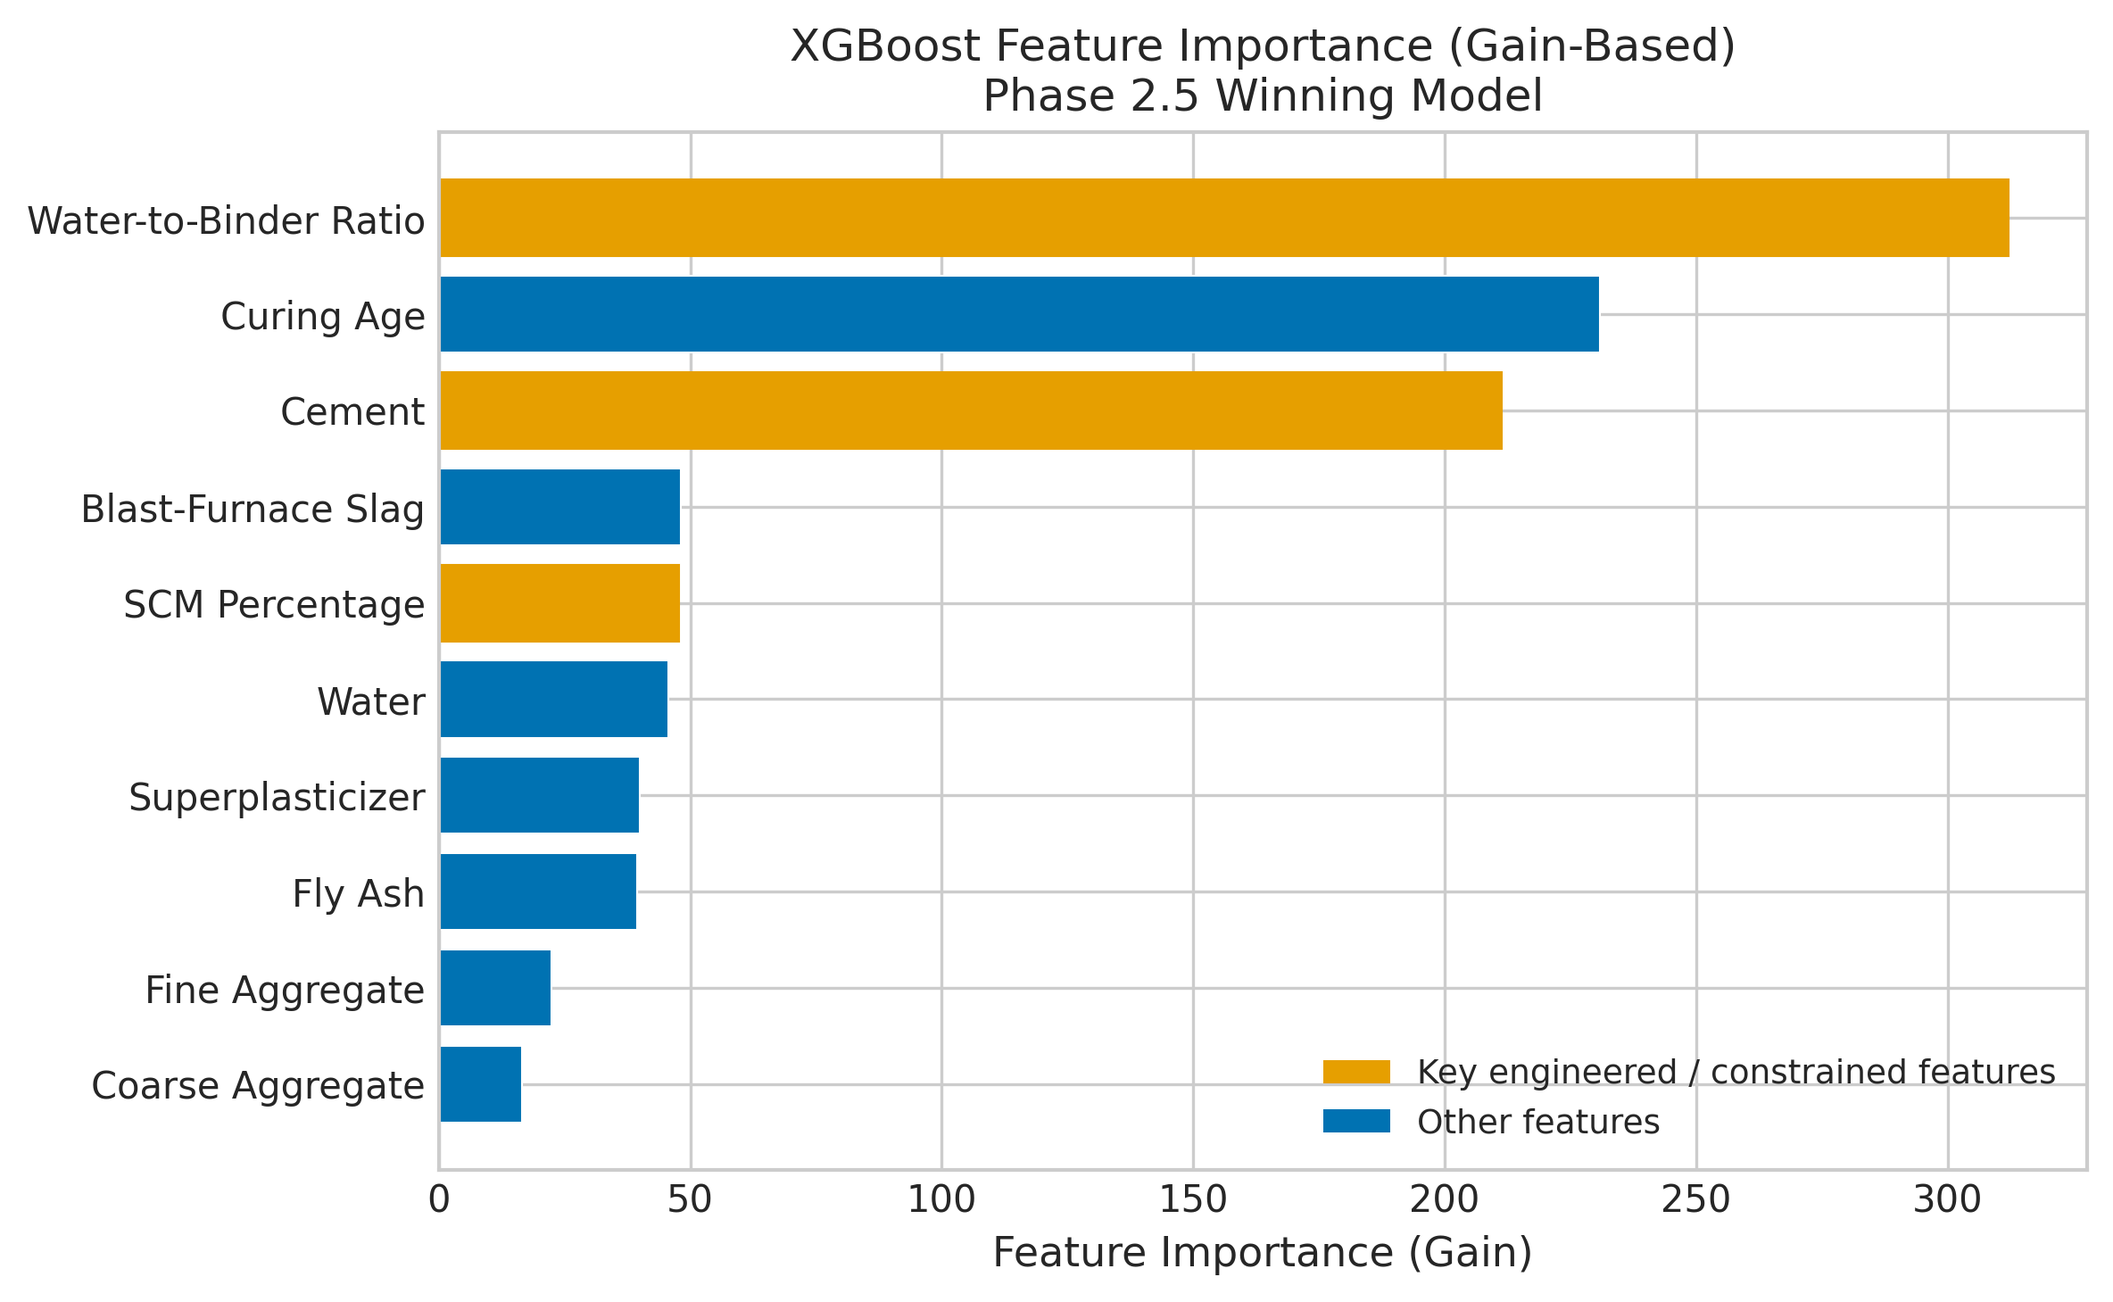
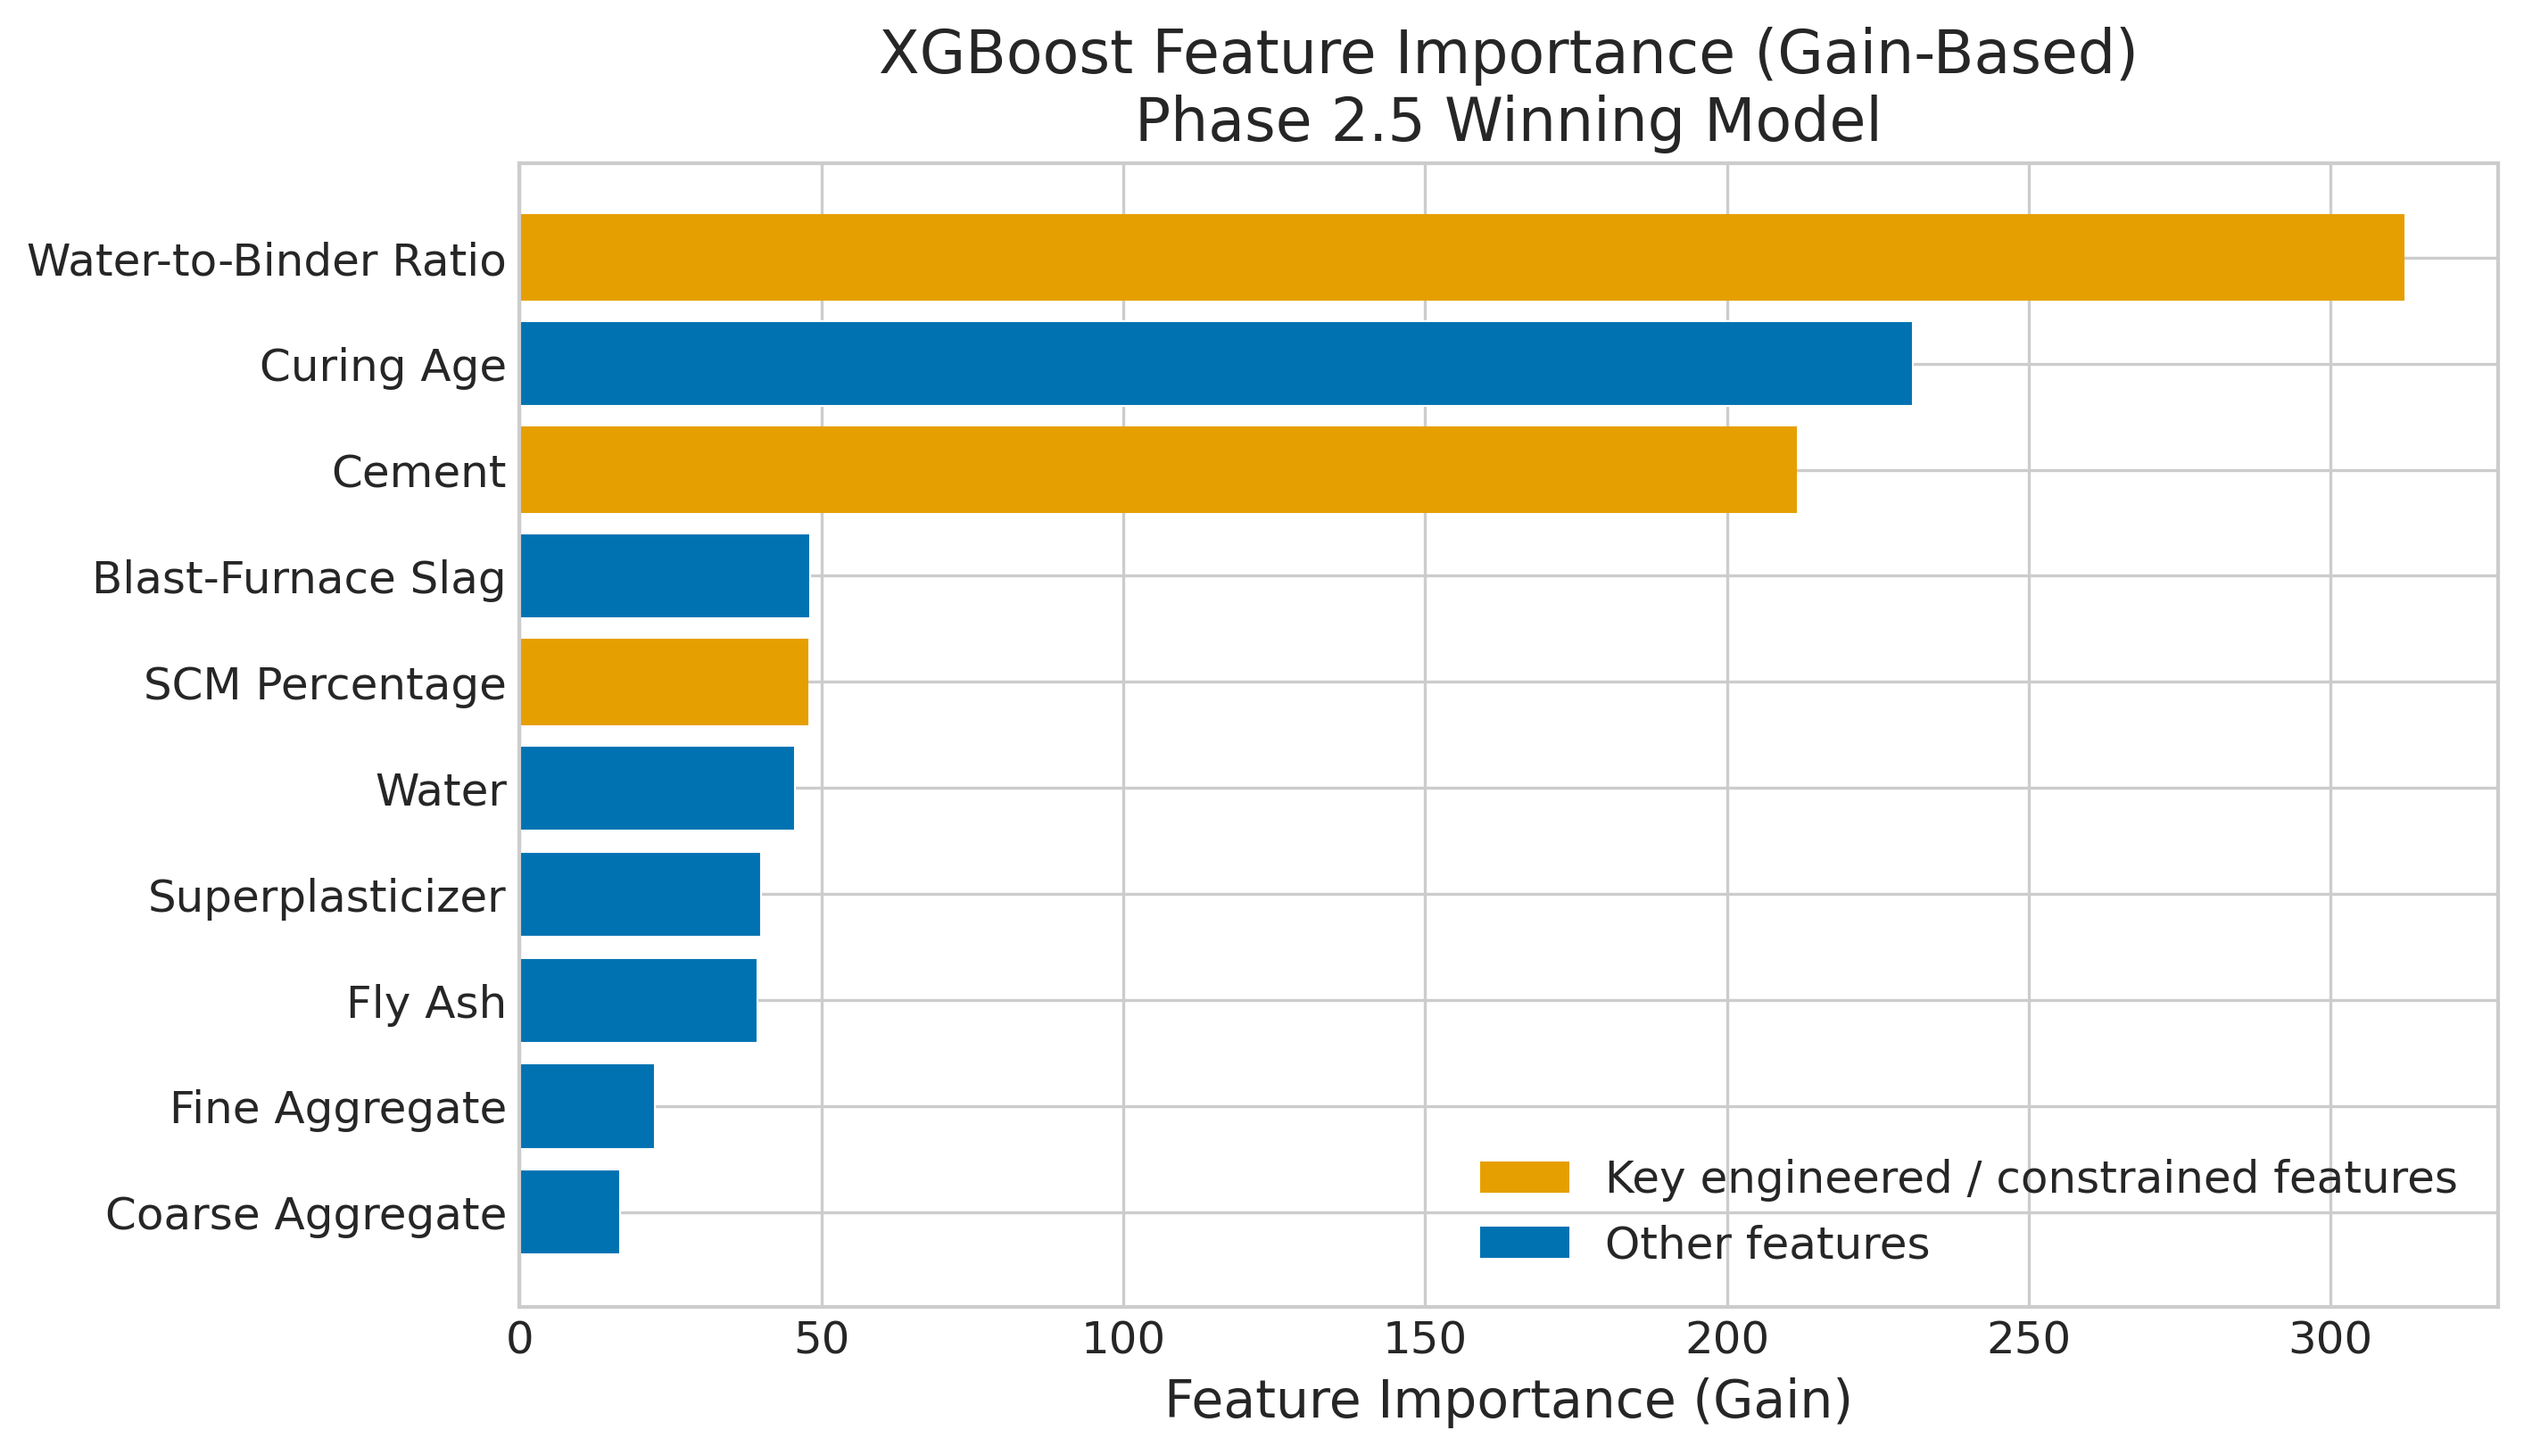
Update concrete mix design summary — post-review rewrite with sensitivity analysis
Rewrite in journalism format. Add emission-sensitivity plot (Figure 5).
Fix mix composition to 120/300/150 (matching actual Pareto data).
Report CO2 reduction as range (42-53%) rather than single point.
Regenerated pred_vs_actual and feature_importance plots.

diff --git a/content/hdr/results/concrete-mix-design/index.md b/content/hdr/results/concrete-mix-design/index.md
@@ -1,55 +1,60 @@
 ---
 title: "Half the Carbon, Same Strength: A Known Concrete Recipe, Honestly Reproduced"
-date: 2026-04-09
+date: 2026-04-10
 weight: 15
-blurb: "Can you halve the carbon footprint of structural concrete and keep the strength? Yes, but this is not news -- it has been known for decades. We reproduced it transparently to show our methodology works, not to claim a discovery."
+blurb: "Replacing two thirds of the cement in structural concrete with industrial byproducts cuts embodied carbon by 42 to 53 percent at equivalent strength. The recipe has been known for decades. We reproduced it with a transparent methodology to show where the model's predictions end and where extrapolation begins."
 domain: "Materials Engineering"
 tags: ["materials", "sustainability", "concrete", "reproduction", "multi-objective"]
 ---
 
 *This is a short summary. For the full technical write-up, see the [detailed paper](https://github.com/colinjoc/hdr_autoresearch/blob/master/applications/concrete/paper.md).*
 
-## The Question
+## Cement Makes Up 8 Percent of Global Emissions. Can You Replace Most of It?
 
-Concrete is the most consumed material on Earth -- about 30 billion tonnes per year -- and cement production accounts for roughly 8 percent of global carbon dioxide emissions. Cement alone is responsible for 94 percent of concrete's carbon footprint. The most established approach to reducing it is to partially replace cement with industrial byproducts: blast-furnace slag from steel production and fly ash from coal combustion. Both react slowly with water to form the same binding compounds that cement produces, but with a fraction of the embodied carbon.
+Concrete is the most consumed material on Earth -- about 30 billion tonnes per year. Cement, the active ingredient that makes concrete harden, produces roughly 8 percent of all human-caused carbon dioxide emissions. In a standard structural mix, cement alone accounts for 94 percent of the embodied carbon.
 
-The question we investigated is not whether this approach works -- it has been documented since the 1990s and is codified in highway administration guidance. The question is whether our automated research methodology can reproduce the known result transparently, with explicit honesty about where the model's training data runs out.
+The most established approach to reducing that footprint is to replace cement with industrial byproducts: blast-furnace slag from steel production and fly ash from coal combustion. Both react slowly with water to form the same binding compounds as cement, but with a fraction of the carbon cost. The trade-off is time -- these mixes take 56 to 90 days to reach full strength instead of the standard 28 days.
 
-## What We Found
+We ran an automated experiment loop on the standard 1,030-sample UCI Concrete dataset to see if a transparent, reproducible methodology could arrive at the known answer -- and to be honest about where the model's training data runs out.
 
-The methodology reproduced the established result. A concrete mix with 120 kilograms of cement, 200 kilograms of slag, and 100 kilograms of fly ash per cubic metre, cured for 90 days instead of the standard 28, is predicted to reach structural-grade strength at 53 percent lower embodied carbon than a conventional mix -- and at roughly the same cost.
+## The Methodology Reproduced the Known Result
 
-- The discovered mix reduces cement by two thirds compared to the standard 350-kilogram formulation, substituting slag and fly ash. The predicted strength exceeds the target by 18 percent.
-- The standard default model settings were almost already optimal. Of 20 single-change experiments, only four improved the model: a water-to-binder ratio feature, a supplementary materials percentage feature, a constraint forcing the model to respect the physical rule that more cement means more strength, and an increase in training iterations.
-- The textbook logarithmic age feature was rejected. The model can already handle the age-versus-strength relationship without an explicit transformation, and adding a redundant feature increased noise more than it reduced error.
-- A previous version of this project reported a 75 percent carbon reduction. The current analysis rejects that claim because it required extrapolating below the training data's minimum cement content. The verified in-distribution result is 53 percent, not 75 percent.
-- The practical barrier is not chemistry or cost but regulatory: whether your local building code accepts 56-day or 90-day strength specifications instead of the standard 28-day test.
+Out of 23 single-change experiments, only 4 improved the model. The final predictor (XGBoost with two engineered features and one physical constraint) achieved a cross-validated prediction error of 2.55 MPa, confirmed on a held-out 20 percent test set that the model never saw during development (test error: 2.15 MPa, R-squared 0.964).
 
-![The strength-versus-carbon-dioxide trade-off for candidate mixes, with the conventional baseline and the discovered winner](plots/headline_finding.png)
+Screening 3,685 candidate mixes through this model identified a Pareto-optimal design: 120 kilograms of cement, 300 kilograms of slag, and 150 kilograms of fly ash per cubic metre, cured for 90 days. The predicted strength is 58.8 MPa -- 18 percent above the 50 MPa structural target.
 
-## Why That's Surprising
+![The strength-versus-carbon trade-off for all candidate mixes. The discovered mix sits at the Pareto front's knee: further carbon cuts buy diminishing strength.](plots/headline_finding.png)
 
-It is not -- and that is the point. The recipe sits comfortably within the well-established category of high-volume fly ash concrete, formalised in the 1990s. An independent 2025 study using a completely different method reported an essentially identical result. The contribution here is not the chemistry but the methodology: a fully reproducible, pre-registered experiment loop where every hypothesis has a stated prior and every failed experiment is recorded alongside the successful ones. Most published studies in this area report only the winning configuration.
+## The Carbon Reduction Depends on How You Count the Slag
 
-The rejection of the 75 percent claim is itself instructive. A model trained on data where the lowest cement content is 102 kilograms per cubic metre should not be trusted to predict what happens at 80 kilograms. The mathematically optimal mix sits outside the training range. Reporting it as a verified finding -- as many published papers in this area do -- is an extrapolation, not a prediction.
+The headline number -- how much carbon the mix saves compared to conventional concrete -- depends on a technical accounting choice: how to assign the emissions from steel production to its byproduct, blast-furnace slag.
 
-![The relationship between cement content and carbon dioxide, showing the in-distribution boundary](plots/co2_comparison.png)
+Under the standard economic allocation used in most life-cycle assessments, the discovered mix produces 157 kilograms of carbon dioxide per cubic metre, a 53 percent reduction compared to the conventional 335 kilograms. But under mass allocation (a legitimate alternative method), the slag carries higher attributed emissions and the reduction drops to 42 percent. At the most conservative figure in the literature, it falls to 33 percent.
 
-## What It Means
+Because the discovery mix uses 300 kilograms of slag -- far more than a conventional mix, which uses none -- this accounting choice matters more here than in most concrete studies.
 
-For a structural engineer: the 53 percent carbon reduction is achievable with standard materials and standard methods. No exotic chemistry, no proprietary processes. The main decision is whether your project can accept 56-day or 90-day strength testing instead of the standard 28-day test. Many European codes and an increasing number of American codes already allow this.
+![How the headline carbon reduction shifts as the slag emission factor changes across allocation methods](plots/emission_sensitivity.png)
 
-For the machine-learning-for-concrete community: be honest about your training data boundaries. The UCI Concrete Compressive Strength dataset -- used in hundreds of published papers -- has a minimum cement content of 102 kilograms per cubic metre. Any mix design below that value is an extrapolation. Report it as such, or do not report it at all.
+## Why This Matters Even Though It Is Not New
+
+The recipe itself has been documented since the 1990s. Bilodeau and Malhotra published the foundational study on high-volume fly ash concrete in 2000. A 2025 study using a completely different optimisation method reported an essentially identical result.
+
+What this project demonstrates is the methodology. Every experiment has a stated prior expectation and a pre-registered keep-or-revert decision. The model's mathematical optimum -- which would use even less cement -- sits below the training data's minimum and is explicitly rejected as an extrapolation rather than reported as a verified finding. The local prediction error at the discovery's operating point (1.71 MPa) is actually lower than the model's global average (2.55 MPa), despite the sparse data in that region.
+
+The practical barrier is not chemistry or cost. It is regulatory: whether a building code accepts 90-day strength testing instead of the standard 28-day test. Many European codes and an increasing number of American codes already allow this.
+
+![Component-level carbon breakdown showing cement as the dominant contributor in conventional concrete](plots/co2_comparison.png)
 
 ## How We Did It
 
-We used the standard UCI Concrete Compressive Strength dataset (1,030 samples, freely available), ran a three-family model tournament, 20 single-change experiments, and an eight-experiment compositional retest. The winning model uses the eight raw mix components plus two derived features and one monotonicity constraint. A design sweep screened 3,685 candidate mixes across 11 generation strategies covering 28-day, 56-day, and 90-day curing. All candidates were filtered to the training data range before reporting. The entire pipeline runs in two minutes on a laptop. Full code, data reference, and experiment log are in the [project repository](https://github.com/colinjoc/hdr_autoresearch/tree/master/applications/concrete).
+We used the UCI Concrete Compressive Strength dataset (1,030 samples, freely available), ran a three-family model tournament followed by 20 single-change experiments and an eight-experiment compositional retest. The winning model uses the eight raw mix components plus water-to-binder ratio and supplementary materials percentage, with one monotonicity constraint (more cement must not decrease strength). A design sweep screened 3,685 candidate mixes across 11 generation strategies. Emission-factor sensitivity, local-density analysis, holdout evaluation, and bootstrap confidence intervals were run as additional validation. The entire pipeline runs in two minutes on a laptop. Full code, data reference, and experiment log are in the [project repository](https://github.com/colinjoc/hdr_autoresearch/tree/master/applications/concrete).
 
 ## Further Reading
 
 - Yeh IC. "Modeling of Strength of High-Performance Concrete Using Artificial Neural Networks." *Cement and Concrete Research* (1998). [doi:10.1016/S0008-8846(98)00165-3](https://doi.org/10.1016/S0008-8846(98)00165-3) -- the source of the standard dataset.
 - Bilodeau A, Malhotra VM. "High-Volume Fly Ash System." *ACI Materials Journal* (2000). -- the foundational paper establishing the high-volume fly ash concrete category.
-- Federal Highway Administration. "Supplementary Cementitious Materials." [FHWA-HIF-16-001](https://www.fhwa.dot.gov/) (2016). -- the regulatory framework permitting high slag and fly ash replacement ratios.
+- DeRousseau MA, Kasprzyk JR, Srubar WV. "Computational design optimization of concrete mixtures: A review." *Cement and Concrete Research* (2018). [doi:10.1016/j.cemconres.2018.04.007](https://doi.org/10.1016/j.cemconres.2018.04.007) -- survey of ML-guided concrete design.
+- Hammond GP, Jones CI. *Inventory of Carbon and Energy (ICE) Database.* Version 3.0, University of Bath (2019). -- the source of emission factors used in this study.
 
 ---
-📂 **[HDR methodology](https://github.com/colinjoc/hdr_autoresearch)**
+[HDR methodology](https://github.com/colinjoc/hdr_autoresearch)
